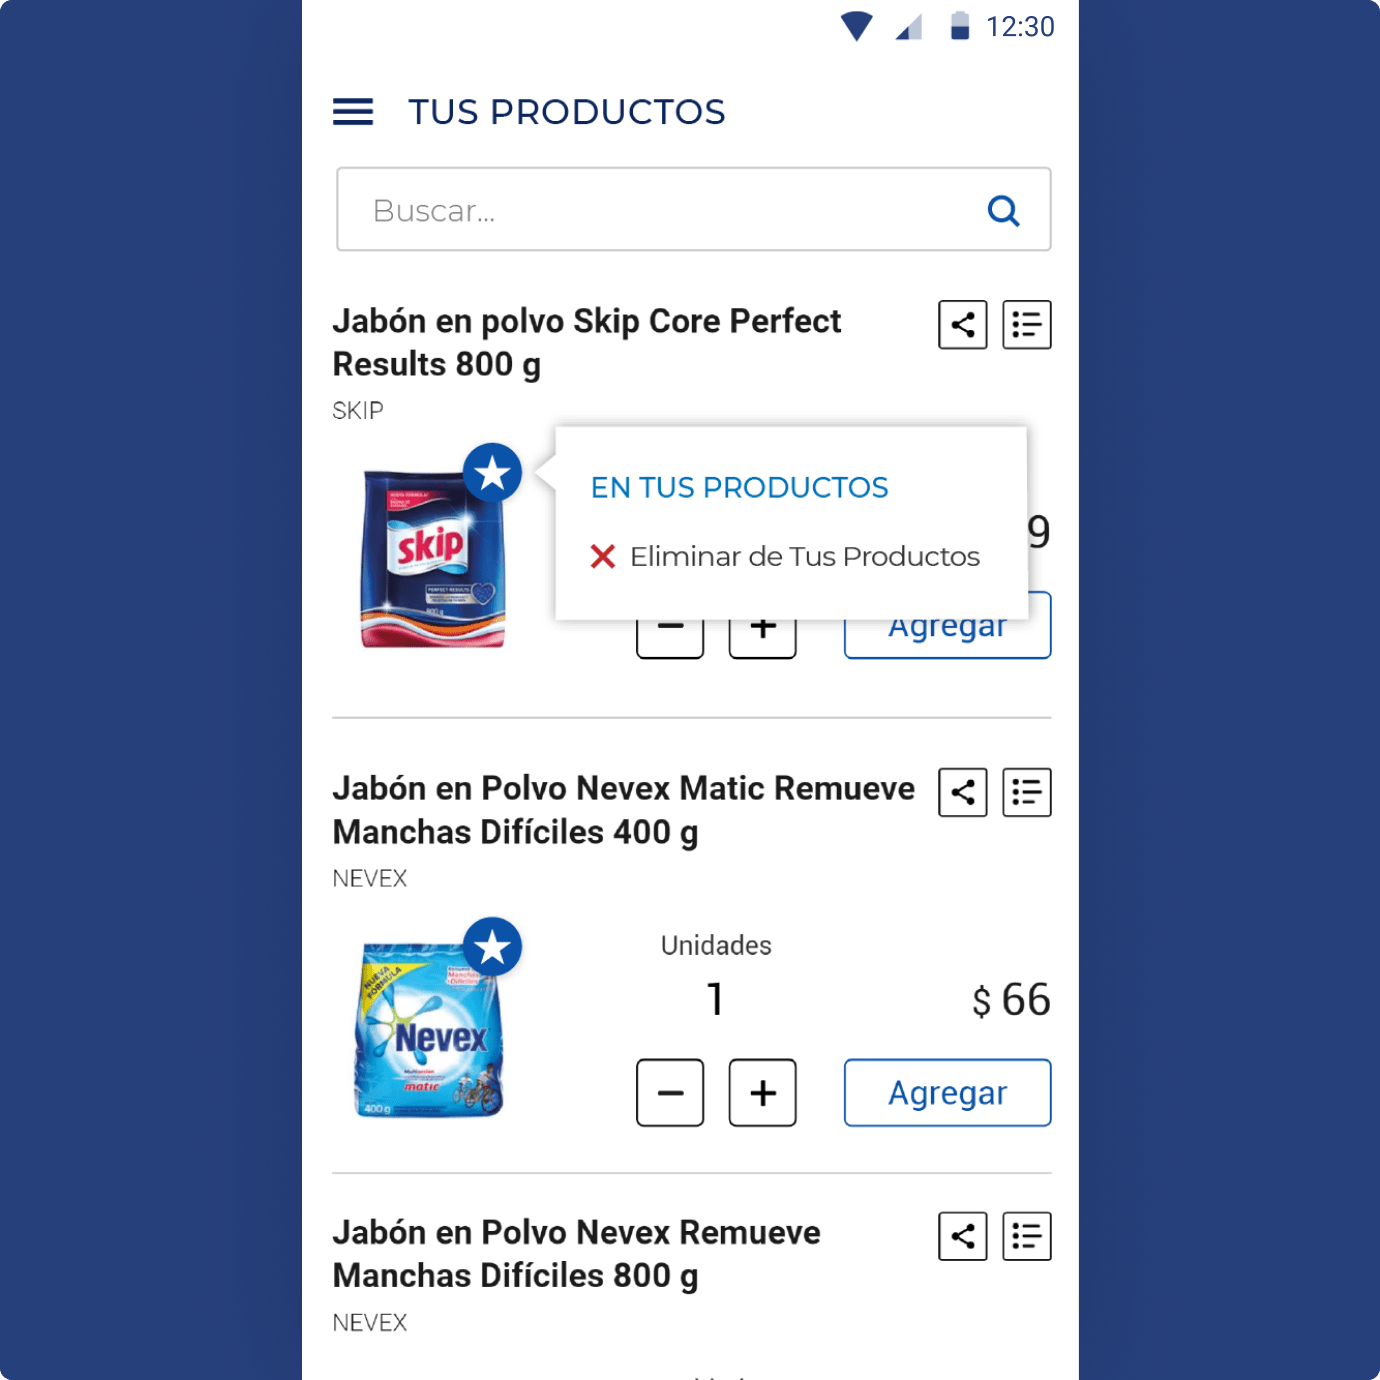
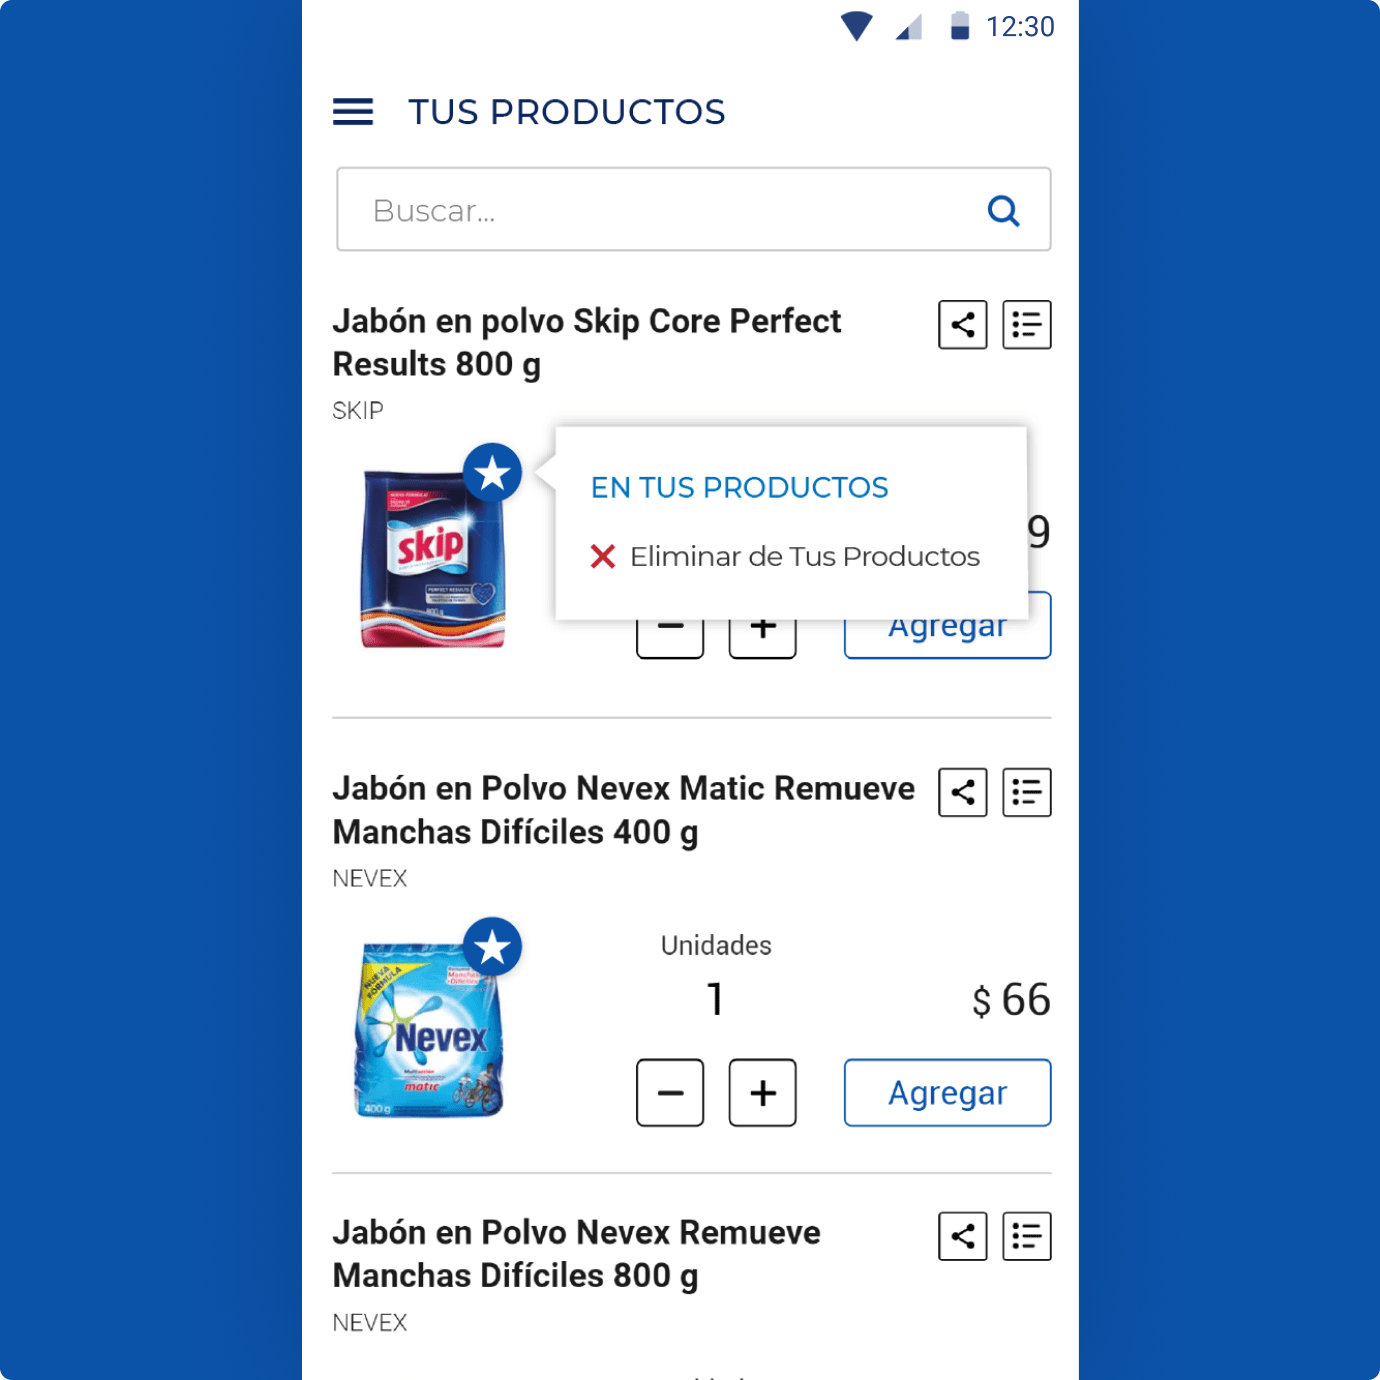
Ajustes de colores al menu

diff --git a/assets/css/styles.css b/assets/css/styles.css
@@ -220,7 +220,7 @@ a {
 }
 /* Hero de About y Projects */
 #subhero {
-    background: #002195;
+    background: #0055ff;
     color: #FFF;
 }
 #subhero .wrapper {
@@ -339,7 +339,7 @@ a {
 }
 /* Contact */
 #contact {
-    background: #0055FF;
+    background: #002DCA;
     color: #FFF;
     display: flex;
     align-items: center;
@@ -393,7 +393,7 @@ footer {
     position: relative;
     overflow: hidden;
     height: 350px;
-    background: #002195;
+    background: #002DCA;
     color: #FFF;
 }
 footer .contact__text {
@@ -468,7 +468,7 @@ footer p a {
     background: #512683;
 }
 #hero-case-study.devoto {
-    background: #26407C;
+    background: #0B52A9;
 }
 #hero-case-study .wrapper {
     max-width: 800px;
@@ -681,6 +681,7 @@ body.no-scroll main {
 .menu-open .menu__content {
     visibility: visible;
 }
+
 .menu__wrapper .menu {
     position: fixed;
     left: 20px;
@@ -696,7 +697,29 @@ body.no-scroll main {
     -webkit-box-shadow: 0 0 0 0 #0055ff, 0 0 0 0 #0055ff;
             box-shadow: 0 0 0 0 #0055ff, 0 0 0 0 #0055ff;
     cursor: pointer;
-  }
+}
+.menu__wrapper .menu.devoto {
+    background: #0B52A9;
+    -webkit-box-shadow: 0 0 0 0 #0B52A9, 0 0 0 0 #0B52A9;
+            box-shadow: 0 0 0 0 #0B52A9, 0 0 0 0 #0B52A9;
+}
+.menu-open .menu.devoto {
+    -webkit-box-shadow: 0 0 0 100vw #002DCA, 0 0 0 100vh #002DCA;
+            box-shadow: 0 0 0 100vw #002DCA, 0 0 0 100vh #002DCA;
+    border-radius: 0;
+    background: #002DCA;
+}
+.menu__wrapper .menu.emochi {
+    background: #512683;
+    -webkit-box-shadow: 0 0 0 0 #512683, 0 0 0 0 #512683;
+            box-shadow: 0 0 0 0 #512683, 0 0 0 0 #512683;
+}
+.menu-open .menu.emochi {
+    -webkit-box-shadow: 0 0 0 100vw #002DCA, 0 0 0 100vh #002DCA;
+            box-shadow: 0 0 0 100vw #002DCA, 0 0 0 100vh #002DCA;
+    border-radius: 0;
+    background: #002DCA;
+}
 .menu__wrapper .hamburger {
     position: absolute;
     top: 25px;

diff --git a/projects/nextbus/index.html b/projects/nextbus/index.html
@@ -81,12 +81,12 @@
                 <div class="case-study__section">
                     <a href="../dgi" class="case-study__navigator">
                         <picture>
-                            <source srcset="../../assets/img/irpf.webp" type="image/webp">
-                            <img src="../../assets/img/irpf.png" alt="">
+                            <source srcset="" type="image/webp">
+                            <img src="../../assets/img/emochi.png" alt="">
                         </picture>
                         <div>
                             <span>Next project</span>
-                            <p>Tax declaration</p>
+                            <p>A Tamagotchi that teaches</p>
                         </div>
                     </a>
                 </div>

diff --git a/projects/devoto/index.html b/projects/devoto/index.html
@@ -153,7 +153,7 @@
     </footer>
 
     <div class="menu__wrapper">
-        <span class='menu'> 
+        <span class='menu devoto'> 
             <span class='hamburger'></span>
         </span>
         <div class="menu__content">

diff --git a/projects/emochi/index.html b/projects/emochi/index.html
@@ -513,7 +513,7 @@
     </footer>
 
     <div class="menu__wrapper">
-        <span class='menu'> 
+        <span class='menu emochi'> 
             <span class='hamburger'></span>
         </span>
         <div class="menu__content">
